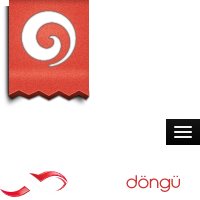
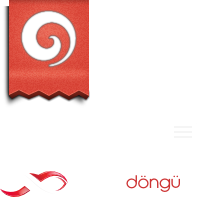
files added

Changed region(s): [[0.81, 0.57, 1.0, 0.75]]

diff --git a/scripts/main.js b/scripts/main.js
@@ -3,32 +3,35 @@
 /* Main menu */
 $(function(){$('nav ul').menu()});(function(window,$,undefined){'use strict';jQuery.fn.reverse=[].reverse;$.menu=function(options,element){this.$el=$(element);this._init(options)};$.menu.defaults={center:6,angleInc:-10,speed:700,easing:'ease',proximity:-45,neighbor:-4,onLoadAnim:true,initclosed:false,closeIdx:11};$.menu.prototype={_init:function(options){this.options=$.extend(true,{},$.menu.defaults,options);this.$items=this.$el.children('li');this.itemsCount=this.$items.length;this.current=-1;this.cache=[];if(this.options.onLoadAnim){this._setTransition()}if(!this.options.initclosed){this._center(this.options.center,this.options.onLoadAnim)}else{this.isClosed=true;if(!this.options.onLoadAnim){this._setTransition()}}this._initEvents()},_setTransition:function(){},_openclose:function(){var _self=this;if(this.isClosed){this._center(this.options.center,true)}else{this.$items.each(function(i){var transformStr='rotate(0deg)';$(this).css({'-webkit-transform':transformStr,'-moz-transform':transformStr,'-o-transform':transformStr,'-ms-transform':transformStr,'transform':transformStr})})}this.isClosed=!this.isClosed},_center:function(idx,anim){var _self=this;this.$items.each(function(i){var transformStr='rotate('+(_self.options.angleInc*(i-idx))+'deg)';$(this).css({'-webkit-transform':transformStr,'-moz-transform':transformStr,'-o-transform':transformStr,'-ms-transform':transformStr,'transform':transformStr})})},_initEvents:function(){var _self=this;this.$items.on('click.menu',function(event){var $item=$(this),itmIdx=$item.index();if(itmIdx!==_self.current){if(_self.options.closeIdx!==-1&&itmIdx===_self.options.closeIdx){_self._openclose();_self._setCurrent()}else{_self._setCurrent($item);var transformStr='rotate(0deg)';$item.css({'-webkit-transform':transformStr,'-moz-transform':transformStr,'-o-transform':transformStr,'-ms-transform':transformStr,'transform':transformStr});_self._rotateSiblings($item)}}})},_rotateSiblings:function($item){var _self=this,idx=$item.index(),$cached=this.cache[idx],$siblings;if($cached){$siblings=$cached}else{$siblings=$item.siblings();this.cache[idx]=$siblings}$siblings.each(function(i){var rotateVal=(i<idx)?_self.options.angleInc*(i-idx):(i-idx===1)?_self.options.proximity:_self.options.proximity+(i-idx-1)*_self.options.neighbor;var transformStr='rotate('+rotateVal+'deg)';$(this).css({'-webkit-transform':transformStr,'-moz-transform':transformStr,'-o-transform':transformStr,'-ms-transform':transformStr,'transform':transformStr})})},_setCurrent:function($el){this.current=$el?$el.index():-1;this.$items.removeClass('active');if($el){$el.addClass('active')}}};$.fn.menu=function(options){if(typeof options==='string'){var args=Array.prototype.slice.call(arguments,1);this.each(function(){var instance=$.data(this,'menu');instance[options].apply(instance,args)})}else{this.each(function(){var instance=$.data(this,'menu');if(!instance){$.data(this,'menu',new $.menu(options,this))}})}return this}})(window,jQuery);
 /* Higlight */
-(function(){var e=/\blang(?:uage)?-(?!\*)(\w+)\b/i,t=self.Prism={languages:{insertBefore:function(e,n,r,i){i=i||t.languages;var s=i[e],o={};for(var u in s)if(s.hasOwnProperty(u)){if(u==n)for(var a in r)r.hasOwnProperty(a)&&(o[a]=r[a]);o[u]=s[u]}return i[e]=o},DFS:function(e,n){for(var r in e){n.call(e,r,e[r]);Object.prototype.toString.call(e)==="[object Object]"&&t.languages.DFS(e[r],n)}}},highlightAll:function(e,n){var r=document.querySelectorAll('code[class*="language-"], [class*="language-"] code, code[class*="lang-"], [class*="lang-"] code');for(var i=0,s;s=r[i++];)t.highlightElement(s,e===!0,n)},highlightElement:function(r,i,s){var o,u,a=r;while(a&&!e.test(a.className))a=a.parentNode;if(a){o=(a.className.match(e)||[,""])[1];u=t.languages[o]}if(!u)return;r.className=r.className.replace(e,"").replace(/\s+/g," ")+" language-"+o;a=r.parentNode;/pre/i.test(a.nodeName)&&(a.className=a.className.replace(e,"").replace(/\s+/g," ")+" language-"+o);var f=r.textContent.trim();if(!f)return;f=f.replace(/&/g,"&amp;").replace(/</g,"&lt;").replace(/>/g,"&gt;").replace(/\u00a0/g," ");var l={element:r,language:o,grammar:u,code:f};t.hooks.run("before-highlight",l);if(i&&self.Worker){var c=new Worker(t.filename);c.onmessage=function(e){l.highlightedCode=n.stringify(JSON.parse(e.data));l.element.innerHTML=l.highlightedCode;s&&s.call(l.element);t.hooks.run("after-highlight",l)};c.postMessage(JSON.stringify({language:l.language,code:l.code}))}else{l.highlightedCode=t.highlight(l.code,l.grammar);l.element.innerHTML=l.highlightedCode;s&&s.call(r);t.hooks.run("after-highlight",l)}},highlight:function(e,r){return n.stringify(t.tokenize(e,r))},tokenize:function(e,n){var r=t.Token,i=[e],s=n.rest;if(s){for(var o in s)n[o]=s[o];delete n.rest}e:for(var o in n){if(!n.hasOwnProperty(o)||!n[o])continue;var u=n[o],a=u.inside,f=!!u.lookbehind||0;u=u.pattern||u;for(var l=0;l<i.length;l++){var c=i[l];if(i.length>e.length)break e;if(c instanceof r)continue;u.lastIndex=0;var h=u.exec(c);if(h){f&&(f=h[1].length);var p=h.index-1+f,h=h[0].slice(f),d=h.length,v=p+d,m=c.slice(0,p+1),g=c.slice(v+1),y=[l,1];m&&y.push(m);var b=new r(o,a?t.tokenize(h,a):h);y.push(b);g&&y.push(g);Array.prototype.splice.apply(i,y)}}}return i},hooks:{all:{},add:function(e,n){var r=t.hooks.all;r[e]=r[e]||[];r[e].push(n)},run:function(e,n){var r=t.hooks.all[e];if(!r||!r.length)return;for(var i=0,s;s=r[i++];)s(n)}}},n=t.Token=function(e,t){this.type=e;this.content=t};n.stringify=function(e){if(typeof e=="string")return e;if(Object.prototype.toString.call(e)=="[object Array]"){for(var r=0;r<e.length;r++)e[r]=n.stringify(e[r]);return e.join("")}var i={type:e.type,content:n.stringify(e.content),tag:"span",classes:["token",e.type],attributes:{}};i.type=="comment"&&(i.attributes.spellcheck="true");t.hooks.run("wrap",i);var s="";for(var o in i.attributes)s+=o+'="'+(i.attributes[o]||"")+'"';return"<"+i.tag+' class="'+i.classes.join(" ")+'" '+s+">"+i.content+"</"+i.tag+">"};if(!self.document){self.addEventListener("message",function(e){var n=JSON.parse(e.data),r=n.language,i=n.code;self.postMessage(JSON.stringify(t.tokenize(i,t.languages[r])));self.close()},!1);return}var r=document.getElementsByTagName("script");r=r[r.length-1];if(r){t.filename=r.src;document.addEventListener&&!r.hasAttribute("data-manual")&&document.addEventListener("DOMContentLoaded",t.highlightAll)}})();
-Prism.languages.markup={comment:/&lt;!--[\w\W]*?--(&gt;|&gt;)/g,prolog:/&lt;\?.+?\?&gt;/,doctype:/&lt;!DOCTYPE.+?&gt;/,cdata:/&lt;!\[CDATA\[[\w\W]+?]]&gt;/i,tag:{pattern:/&lt;\/?[\w:-]+\s*[\w\W]*?&gt;/gi,inside:{tag:{pattern:/^&lt;\/?[\w:-]+/i,inside:{punctuation:/^&lt;\/?/,namespace:/^[\w-]+?:/}},"attr-value":{pattern:/=(('|")[\w\W]*?(\2)|[^\s>]+)/gi,inside:{punctuation:/=/g}},punctuation:/\/?&gt;/g,"attr-name":{pattern:/[\w:-]+/g,inside:{namespace:/^[\w-]+?:/}}}},entity:/&amp;#?[\da-z]{1,8};/gi};Prism.hooks.add("wrap",function(e){e.type==="entity"&&(e.attributes.title=e.content.replace(/&amp;/,"&"))});
-Prism.languages.css={comment:/\/\*[\w\W]*?\*\//g,atrule:/@[\w-]+?(\s+.+)?(?=\s*{|\s*;)/gi,url:/url\((["']?).*?\1\)/gi,selector:/[^\{\}\s][^\{\}]*(?=\s*\{)/g,property:/(\b|\B)[a-z-]+(?=\s*:)/ig,string:/("|')(\\?.)*?\1/g,important:/\B!important\b/gi,ignore:/&(lt|gt|amp);/gi,punctuation:/[\{\};:]/g};Prism.languages.markup&&Prism.languages.insertBefore("markup","tag",{style:{pattern:/(&lt;|<)style[\w\W]*?(>|&gt;)[\w\W]*?(&lt;|<)\/style(>|&gt;)/ig,inside:{tag:{pattern:/(&lt;|<)style[\w\W]*?(>|&gt;)|(&lt;|<)\/style(>|&gt;)/ig,inside:Prism.languages.markup.tag.inside},rest:Prism.languages.css}}});
-Prism.languages.javascript={comment:{pattern:/(^|[^\\])(\/\*[\w\W]*?\*\/|\/\/.*?(\r?\n|$))/g,lookbehind:!0},string:/("|')(\\?.)*?\1/g,regex:{pattern:/(^|[^/])\/(?!\/)(\[.+?]|\\.|[^/\r\n])+\/[gim]{0,3}(?=\s*($|[\r\n,.;})]))/g,lookbehind:!0},keyword:/\b(var|let|if|else|while|do|for|return|in|instanceof|function|new|with|typeof|try|catch|finally|null|break|continue)\b/g,"boolean":/\b(true|false)\b/g,number:/\b-?(0x)?\d*\.?\d+\b/g,operator:/[-+]{1,2}|!|=?&lt;|=?&gt;|={1,2}|(&amp;){1,2}|\|?\||\?|\*|\//g,ignore:/&(lt|gt|amp);/gi,punctuation:/[{}[\];(),.:]/g};Prism.languages.markup&&Prism.languages.insertBefore("markup","tag",{script:{pattern:/(&lt;|<)script[\w\W]*?(>|&gt;)[\w\W]*?(&lt;|<)\/script(>|&gt;)/ig,inside:{tag:{pattern:/(&lt;|<)script[\w\W]*?(>|&gt;)|(&lt;|<)\/script(>|&gt;)/ig,inside:Prism.languages.markup.tag.inside},rest:Prism.languages.javascript}}});
+(function(){var e=/\blang(?:uage)?-(?!\*)(\w+)\b/i,t=self.Prism={languages:{insertBefore:function(e,n,r,i){i=i||t.languages;var s=i[e],o={};for(var u in s)if(s.hasOwnProperty(u)){if(u==n)for(var a in r)r.hasOwnProperty(a)&&(o[a]=r[a]);o[u]=s[u]}return i[e]=o},DFS:function(e,n){for(var r in e){n.call(e,r,e[r]);Object.prototype.toString.call(e)==="[object Object]"&&t.languages.DFS(e[r],n)}}},highlightAll:function(e,n){var r=document.querySelectorAll('code[class*="language-"], [class*="language-"] code, code[class*="lang-"], [class*="lang-"] code');for(var i=0,s;s=r[i++];)t.highlightElement(s,e===!0,n)},highlightElement:function(r,i,s){var o,u,a=r;while(a&&!e.test(a.className))a=a.parentNode;if(a){o=(a.className.match(e)||[,""])[1];u=t.languages[o]}if(!u)return;r.className=r.className.replace(e,"").replace(/\s+/g," ")+" language-"+o;a=r.parentNode;/pre/i.test(a.nodeName)&&(a.className=a.className.replace(e,"").replace(/\s+/g," ")+" language-"+o);var f=r.textContent.trim();if(!f)return;f=f.replace(/&/g,"&amp;").replace(/</g,"&lt;").replace(/>/g,"&gt;").replace(/\u00a0/g," ");var l={element:r,language:o,grammar:u,code:f};t.hooks.run("before-highlight",l);if(i&&self.Worker){var c=new Worker(t.filename);c.onmessage=function(e){l.highlightedCode=n.stringify(JSON.parse(e.data));l.element.innerHTML=l.highlightedCode;s&&s.call(l.element);t.hooks.run("after-highlight",l)};c.postMessage(JSON.stringify({language:l.language,code:l.code}))}else{l.highlightedCode=t.highlight(l.code,l.grammar);l.element.innerHTML=l.highlightedCode;s&&s.call(r);t.hooks.run("after-highlight",l)}},highlight:function(e,r){return n.stringify(t.tokenize(e,r))},tokenize:function(e,n){var r=t.Token,i=[e],s=n.rest;if(s){for(var o in s)n[o]=s[o];delete n.rest}e:for(var o in n){if(!n.hasOwnProperty(o)||!n[o])continue;var u=n[o],a=u.inside,f=!!u.lookbehind||0;u=u.pattern||u;for(var l=0;l<i.length;l++){var c=i[l];if(i.length>e.length)break e;if(c instanceof r)continue;u.lastIndex=0;var h=u.exec(c);if(h){f&&(f=h[1].length);var p=h.index-1+f,h=h[0].slice(f),d=h.length,v=p+d,m=c.slice(0,p+1),g=c.slice(v+1),y=[l,1];m&&y.push(m);var b=new r(o,a?t.tokenize(h,a):h);y.push(b);g&&y.push(g);Array.prototype.splice.apply(i,y)}}}return i},hooks:{all:{},add:function(e,n){var r=t.hooks.all;r[e]=r[e]||[];r[e].push(n)},run:function(e,n){var r=t.hooks.all[e];if(!r||!r.length)return;for(var i=0,s;s=r[i++];)s(n)}}},n=t.Token=function(e,t){this.type=e;this.content=t};n.stringify=function(e){if(typeof e=="string")return e;if(Object.prototype.toString.call(e)=="[object Array]"){for(var r=0;r<e.length;r++)e[r]=n.stringify(e[r]);return e.join("")}var i={type:e.type,content:n.stringify(e.content),tag:"span",classes:["token",e.type],attributes:{}};i.type=="comment"&&(i.attributes.spellcheck="true");t.hooks.run("wrap",i);var s="";for(var o in i.attributes)s+=o+'="'+(i.attributes[o]||"")+'"';return"<"+i.tag+' class="'+i.classes.join(" ")+'" '+s+">"+i.content+"</"+i.tag+">"};if(!self.document){self.addEventListener("message",function(e){var n=JSON.parse(e.data),r=n.language,i=n.code;self.postMessage(JSON.stringify(t.tokenize(i,t.languages[r])));self.close()},!1);return}var r=document.getElementsByTagName("script");r=r[r.length-1];if(r){t.filename=r.src;document.addEventListener&&!r.hasAttribute("data-manual")&&document.addEventListener("DOMContentLoaded",t.highlightAll)}})(); Prism.languages.markup={comment:/&lt;!--[\w\W]*?--(&gt;|&gt;)/g,prolog:/&lt;\?.+?\?&gt;/,doctype:/&lt;!DOCTYPE.+?&gt;/,cdata:/&lt;!\[CDATA\[[\w\W]+?]]&gt;/i,tag:{pattern:/&lt;\/?[\w:-]+\s*[\w\W]*?&gt;/gi,inside:{tag:{pattern:/^&lt;\/?[\w:-]+/i,inside:{punctuation:/^&lt;\/?/,namespace:/^[\w-]+?:/}},"attr-value":{pattern:/=(('|")[\w\W]*?(\2)|[^\s>]+)/gi,inside:{punctuation:/=/g}},punctuation:/\/?&gt;/g,"attr-name":{pattern:/[\w:-]+/g,inside:{namespace:/^[\w-]+?:/}}}},entity:/&amp;#?[\da-z]{1,8};/gi};Prism.hooks.add("wrap",function(e){e.type==="entity"&&(e.attributes.title=e.content.replace(/&amp;/,"&"))}); Prism.languages.css={comment:/\/\*[\w\W]*?\*\//g,atrule:/@[\w-]+?(\s+.+)?(?=\s*{|\s*;)/gi,url:/url\((["']?).*?\1\)/gi,selector:/[^\{\}\s][^\{\}]*(?=\s*\{)/g,property:/(\b|\B)[a-z-]+(?=\s*:)/ig,string:/("|')(\\?.)*?\1/g,important:/\B!important\b/gi,ignore:/&(lt|gt|amp);/gi,punctuation:/[\{\};:]/g};Prism.languages.markup&&Prism.languages.insertBefore("markup","tag",{style:{pattern:/(&lt;|<)style[\w\W]*?(>|&gt;)[\w\W]*?(&lt;|<)\/style(>|&gt;)/ig,inside:{tag:{pattern:/(&lt;|<)style[\w\W]*?(>|&gt;)|(&lt;|<)\/style(>|&gt;)/ig,inside:Prism.languages.markup.tag.inside},rest:Prism.languages.css}}}); Prism.languages.javascript={comment:{pattern:/(^|[^\\])(\/\*[\w\W]*?\*\/|\/\/.*?(\r?\n|$))/g,lookbehind:!0},string:/("|')(\\?.)*?\1/g,regex:{pattern:/(^|[^/])\/(?!\/)(\[.+?]|\\.|[^/\r\n])+\/[gim]{0,3}(?=\s*($|[\r\n,.;})]))/g,lookbehind:!0},keyword:/\b(var|let|if|else|while|do|for|return|in|instanceof|function|new|with|typeof|try|catch|finally|null|break|continue)\b/g,"boolean":/\b(true|false)\b/g,number:/\b-?(0x)?\d*\.?\d+\b/g,operator:/[-+]{1,2}|!|=?&lt;|=?&gt;|={1,2}|(&amp;){1,2}|\|?\||\?|\*|\//g,ignore:/&(lt|gt|amp);/gi,punctuation:/[{}[\];(),.:]/g};Prism.languages.markup&&Prism.languages.insertBefore("markup","tag",{script:{pattern:/(&lt;|<)script[\w\W]*?(>|&gt;)[\w\W]*?(&lt;|<)\/script(>|&gt;)/ig,inside:{tag:{pattern:/(&lt;|<)script[\w\W]*?(>|&gt;)|(&lt;|<)\/script(>|&gt;)/ig,inside:Prism.languages.markup.tag.inside},rest:Prism.languages.javascript}}});
 /* Responsive Design */
 $(document).ready(function() {
-    var switched = true;
-    var responsive = function() {
-        var width = $(window).width();
-        if (switched && width < 1000) {
-            $('header p').after('<span>Menü</span>');
-            switched = false;
+    var switched = true,
+        responsive = function() {
+            var width = $(window).width();
+
+            if (switched && width < 1000) {
+                $('header p').after('<span>Menü</span>');
+
+                $('header span').click(function() {
+                    $('header ul').toggleClass('block');
+                });
+
+                switched = false;
+            };
+
+            if (width <= 950) {
+                $('pre').css('width',width -50);
+                $('aside span').css('width',width - 30);
+            }else{
+                $('pre, aside span').css('width','auto');
+            }
         };
-        if (width <= 950) {
-            $('pre').css('width',width -50);
-            $('aside span').css('width',width - 30);
-        }else{
-            $('pre, aside span').css('width','auto');
-        }
-        $('header span').click(function() {
-            $('header ul').toggleClass('block');
-        });
-        $('aside span').click(function() {
-            $('aside ul').toggleClass('block');
-        });
-    };
+
+    $('aside span').click(function() {
+        $('aside ul').toggleClass('block');
+    });
+
     responsive();
     $(window).bind("resize", responsive);
 });

diff --git a/styles/main.css b/styles/main.css
@@ -24,7 +24,7 @@ header p a {
 }
 header ul {
     float: right;
-    margin-top: 50px;
+    margin: 50px 5px 0 0;
 }
 header ul li {
     float: left;
@@ -287,7 +287,6 @@ footer p a {
 #selenium article   { background: url('../images/selenium.jpg') no-repeat 50% 150px; }
 #ajax               { background: url('../images/ajax.png') no-repeat 50% 20px; }
 #web                { background: url('../images/webonyuzu.png') no-repeat 50% 20px; }
-#projeler           { background: url('../images/github.png') no-repeat 50% 20px; }
 
 #ajax, #web {
     float: none;
@@ -299,10 +298,10 @@ footer p a {
     color: #000;
 }
 #projeler {
-    min-height: 500px;
-    height: 500px;
+    min-height: 550px;
+    height: 550px;
     height: auto !important;
-    padding: 100px 10px 0 10px;
+    padding: 50px 10px 0 10px;
     color: #5A5A5A;
     font-family: "Helvetica Neue", Helvetica, Arial, sans-serif;
 }
@@ -367,6 +366,11 @@ th, .nextButton {
 }
 
 /* Responsive */
+@media screen and (max-width: 1050px) { 
+    footer p a {
+        display: none;
+    }
+}
 @media screen and (max-width: 1024px) {
     header > div, footer > ul, article, #aboutMe, #xhtml, #css, #html5, #selenium, #ajax, #web, #projeler {
         width: auto;
@@ -384,6 +388,7 @@ th, .nextButton {
     }
     aside {
         margin: 0 10px;
+        padding-bottom: 10px;
         width: auto;
     }
     aside ul {
@@ -394,6 +399,7 @@ th, .nextButton {
         width: 180px;
         float: left;
         line-height: 8px;
+        background-position: 5px 7px;
     }
     #aboutMe {
         background: none;
@@ -414,11 +420,6 @@ th, .nextButton {
         margin: 0 0 0 7px;
     }
 }
-@media screen and (max-width: 1050px) { 
-    footer p a {
-        display: none;
-    }
-}
 @media screen and (max-width: 780px) {
     header ul {
         display: none;
@@ -427,6 +428,7 @@ th, .nextButton {
         right: 0;
         z-index: 9000;
         padding-bottom: 10px;
+        margin-right: 0;
     }
     header ul li {
         float: none;
@@ -456,6 +458,7 @@ th, .nextButton {
     aside {
         border: none;
         background: #000;
+        padding-bottom: 0;
     }
     aside ul {
         display: none;

diff --git a/projeler.php b/projeler.php
@@ -15,13 +15,18 @@
                     </li>
                     <li>
                         <h2>Genius</h2>
-                        <p>HTML5, CSS3 ve JavaScript ile yazılmış bir oyundur.</p>
+                        <p>HTML5, CSS3 ve JavaScript ile yazılmış bir oyun.</p>
                         <p><a href="http://skatersercan.github.com/Genius/">Genius</a> / <a href="https://github.com/skatersercan/Genius">Github</a></p>
                     </li>
                     <li>
                         <h2>Selightbox</h2>
-                        <p>Javascript ve CSS ile yazılmış hızlı çalışan bir lightbox'tır.</p>
+                        <p>Javascript ve CSS ile yazılmış hızlı çalışan bir lightbox.</p>
                         <p><a href="http://skatersercan.github.com/selightbox/">Selightbox</a> / <a href="https://github.com/skatersercan/selightbox">Github</a></p>
+                    </li>
+                    <li>
+                        <h2>Selider</h2>
+                        <p>Javascript ve CSS ile yazılmış pratik bir slider.</p>
+                        <p><a href="http://skatersercan.github.com/Selider/">Selider</a> / <a href="https://github.com/skatersercan/Selider">Github</a></p>
                     </li>
                 </ul>
             </section>
